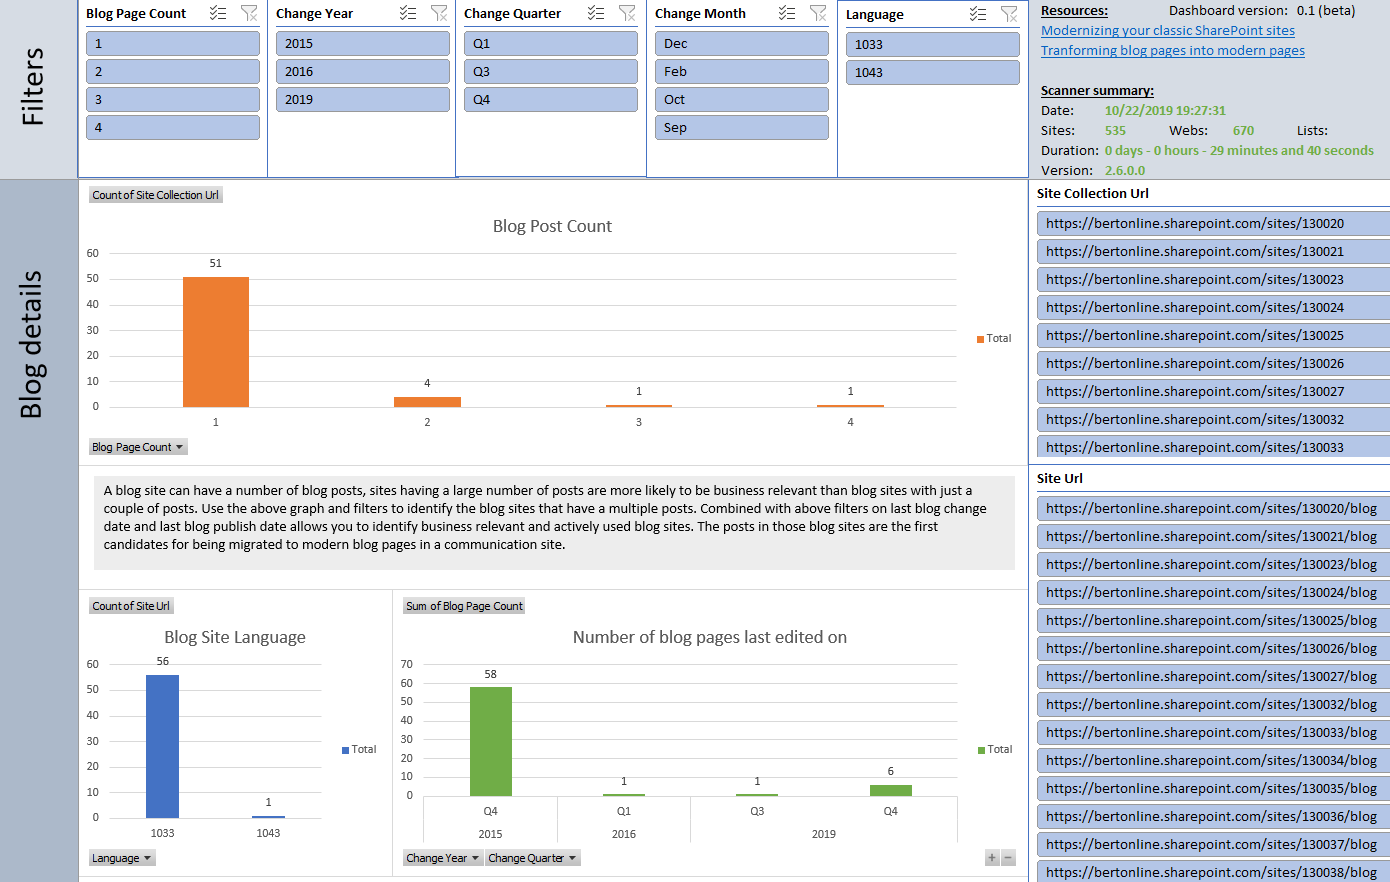
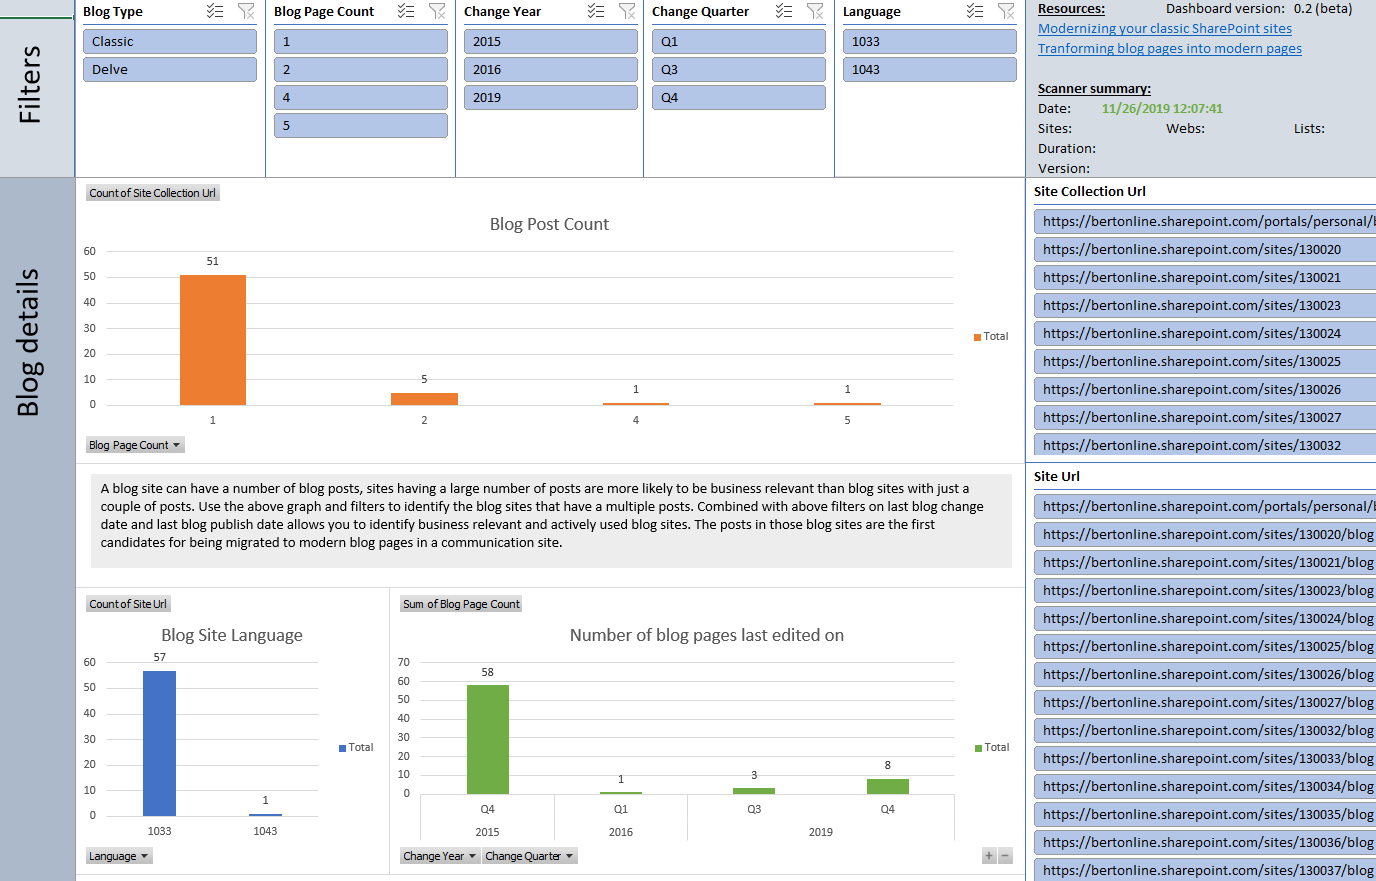
Scanner doc updates

diff --git a/docs/transform/modernize-scanner.md b/docs/transform/modernize-scanner.md
@@ -1,7 +1,7 @@
 ---
 title: The SharePoint modernization scanner
 description: Gets you started with the SharePoint modernization scanner
-ms.date: 11/19/2019
+ms.date: 11/27/2019
 ms.prod: sharepoint
 localization_priority: Priority
 ---
@@ -38,7 +38,9 @@ Since a typical scan needs to be able to scan all site collections it's recommen
 - [Granting access via SharePoint App-Only](../solution-guidance/security-apponly-azureacs.md)
 
 > [!IMPORTANT]
-> If you're choosing for Azure AD app-only, then above mentioned instructions grant the Azure AD app the **Sites.FullControl.All** permission, which is needed if you want to run all scan components. If you're not interested in workflow scanning you can also use **Sites.Read.All** as a permission as of version 2.6 of the SharePoint Modernization Scanner.
+> If you're choosing for Azure AD app-only, then above mentioned instructions grant the Azure AD app the **Sites.FullControl.All** permission, which is needed if you want to run **all** scan components.
+> If you're not interested in workflow scanning you can also use **Sites.Read.All** as a permission (as of version 2.6).
+> If you want to report on site collections that have a Teams team linked then you also need to add the **Group.Read.All** permission (as of version 2.7).
 
 Once the preparation work is done, let's continue with doing a scan.
 
@@ -60,6 +62,9 @@ If you've [setup access via Azure AD App-Only](../solution-guidance/security-app
 - **Azure AD Domain name**: the default domain of your Azure AD environment. You can find this from the overview page of the Azure AD management portal
 - **Certificate file**: the certificate that you granted app-only access to the Azure AD app, this needs to be presented as a password protected PFX file
 - **Password for the PFX file**: the password used to secure the previously provided PFX file
+
+> [!NOTE]
+> You can also opt to install the certificate on your computer and refence it via the -w command line parameters. To reference the certificate you would use this value for the -w parameter "My|CurrentUser|1FG498B468AV3895E7659C8A6F098FB701C8CDB1". You can use My/Root and CurrentUser/LocalMachine to identify the store. The last argument is the certificate thumbprint. This option is available as of the 2.7 release.
 
 > [!IMPORTANT]
 > The default instructions mentioned to grant the Azure AD app the **Sites.FullControl.All** permission which is needed if you want to run all scan components. If you're not interested in workflow scanning you can also use **Sites.Read.All** as a permission as of version 2.6 of the SharePoint Modernization Scanner.
@@ -180,7 +185,7 @@ Mode | Description
 ### Command line parameter overview
 
 ```Console
-SharePoint PnP Modernization scanner 2.6.0.0
+SharePoint PnP Modernization scanner 2.7.0.0
 Copyright (C) 2019 SharePoint PnP
 ==========================================================
 
@@ -286,6 +291,10 @@ https://contoso-admin.contoso.com -u spadmin@contoso.com -p pwd
   -h, --threads                            (Default: 10) Number of parallel threads, maximum = 100
 
   -e, --separator                          (Default: ,) Separator used in output CSV files (e.g. ";")
+
+  -w, --storedcertificate                  (Default: ) Path to stored certificate in the form of
+                                           StoreName|StoreLocation|Thumbprint. E.g.
+                                           My|LocalMachine|3FG496B468BE3828E2359A8A6F092FB701C8CDB1
 
   --help                                   Display this help screen.
 ```

diff --git a/docs/transform/modernize-scanner-reports-groupconnect.md b/docs/transform/modernize-scanner-reports-groupconnect.md
@@ -1,7 +1,7 @@
 ---
 title: The SharePoint modernization scanner reports for the Office 365 group connect scanner mode
 description: Explains the Office 365 group connect output created by the modernization scanner
-ms.date: 10/23/2019
+ms.date: 11/27/2019
 ms.prod: sharepoint
 localization_priority: Priority
 ---
@@ -31,6 +31,7 @@ Column | Description
 **ModernUIWarnings** | This is a collection of warnings indicating either some modern UI component was turned off or incompatible features/customizations have been detected. Possible values are `ModernPageFeatureDisabled` (modern pages are disabled for this site), `ModernListsBlockedAtSiteLevel` (modern UI for lists has been purposely been blocked at site collection level), `ModernListsBlockedAtWebLevel` (modern UI for lists has been purposely been blocked at web collection level), `MasterPageUsed` (a custom master page has been used), `AlternateCSSUsed` (alternate CSS was defined), `UserCustomActionUsed` (incompatible user custom actions have been found) and `PublishingFeatureEnabled` (publishing features are enabled).
 **WebTemplate** | The web template used by the site.
 **Office365GroupId** | If this site is already connected to an Office 365 group is shows the id if that group.
+**HasTeamsTeam** | Is there a Teams team created for the Office 365 Group connected to this site collection (as of version 2.7)
 **MasterPage** | Was a custom master page used?
 **AlternateCSS** | Was alternate CSS defined?
 **UserCustomActions** | Are there incompatible user custom actions used?
@@ -72,6 +73,7 @@ Filter | Takeaway
 **ReadyForGroupify = TRUE** | Will give you all the site collections that can be "Office 365 group connected". There might still be warnings to check, but we did not find any blocking issues
 **ReadyForGroupify = FALSE AND Office365GroupId = ""** | Will give you all the sites which do not yet have an Office 365 group connected and which can't be "Office 365 group connected"
 **ReadyForGroupify = TRUE AND GroupMode = PUBLIC** | Will give you all the site collections that can be "Office 365 group connected" and for which we'll default to a public group (based on the presence of the `everyone` or `everyone except external users` in the site members or site owners
+**HasTeamsTeam = FALSE AND WebTemplate = GROUP#0** | Modern group connected team sites that do not yet have a Teams team created for their Office 365 group (as of version 2.7)
 
 ## Understanding the ModernizationWebScanResults.csv file ##
 

diff --git a/docs/transform/modernize-scanner-reports-blogs.md b/docs/transform/modernize-scanner-reports-blogs.md
@@ -1,7 +1,7 @@
 ---
 title: The SharePoint modernization scanner reports for the blog scanner mode
 description: Explains the blog output created by the modernization scanner
-ms.date: 10/23/2019
+ms.date: 11/27/2019
 ms.prod: sharepoint
 localization_priority: Priority
 ---
@@ -21,6 +21,7 @@ Column | Description
 **Site Collection Url** | Url of the scanned site collection.
 **SiteUrl** | Url of the scanned web.
 **Web Relative Url** | Relative Url of the scanned web.
+**Blog Type** | Is this a classic blog or Delve blog (requires scanner 2.7+).
 **Web Template** | Used web template (should all be BLOG#0).
 **Language** | Language used to create the blog site.
 **Blog Page Count** | Number of blog posts in this site.
@@ -38,6 +39,7 @@ Filter | Takeaway
 ---------|----------
 **No filter** | Lists all the blog sites found in your tenant.
 **Blog Page Count > 10 AND Change Year = this year** | A good filter to identify the actively used blog sites in your tenant. These sites are good candidates for modernization.
+**Blog Type = "Delve blogs"** | As Delve blogs are retired it's good to understand where they are used in your tenant. (requires scanner 2.7+)
 
 ## Understanding the ModernizationBlogPageScanResults.csv file
 
@@ -48,6 +50,7 @@ Column | Description
 **Site Collection Url** | Url of the scanned site collection.
 **SiteUrl** | Url of the scanned web.
 **Web Relative Url** | Relative Url of the scanned web.
+**Blog Type** | Is this a classic blog page or Delve blog page (requires scanner 2.7+).
 **Page Title** | Title of this blog post.
 **Modified At** | Last modified date of this blog post.
 **Modified By** | This blog post was last modified by.
